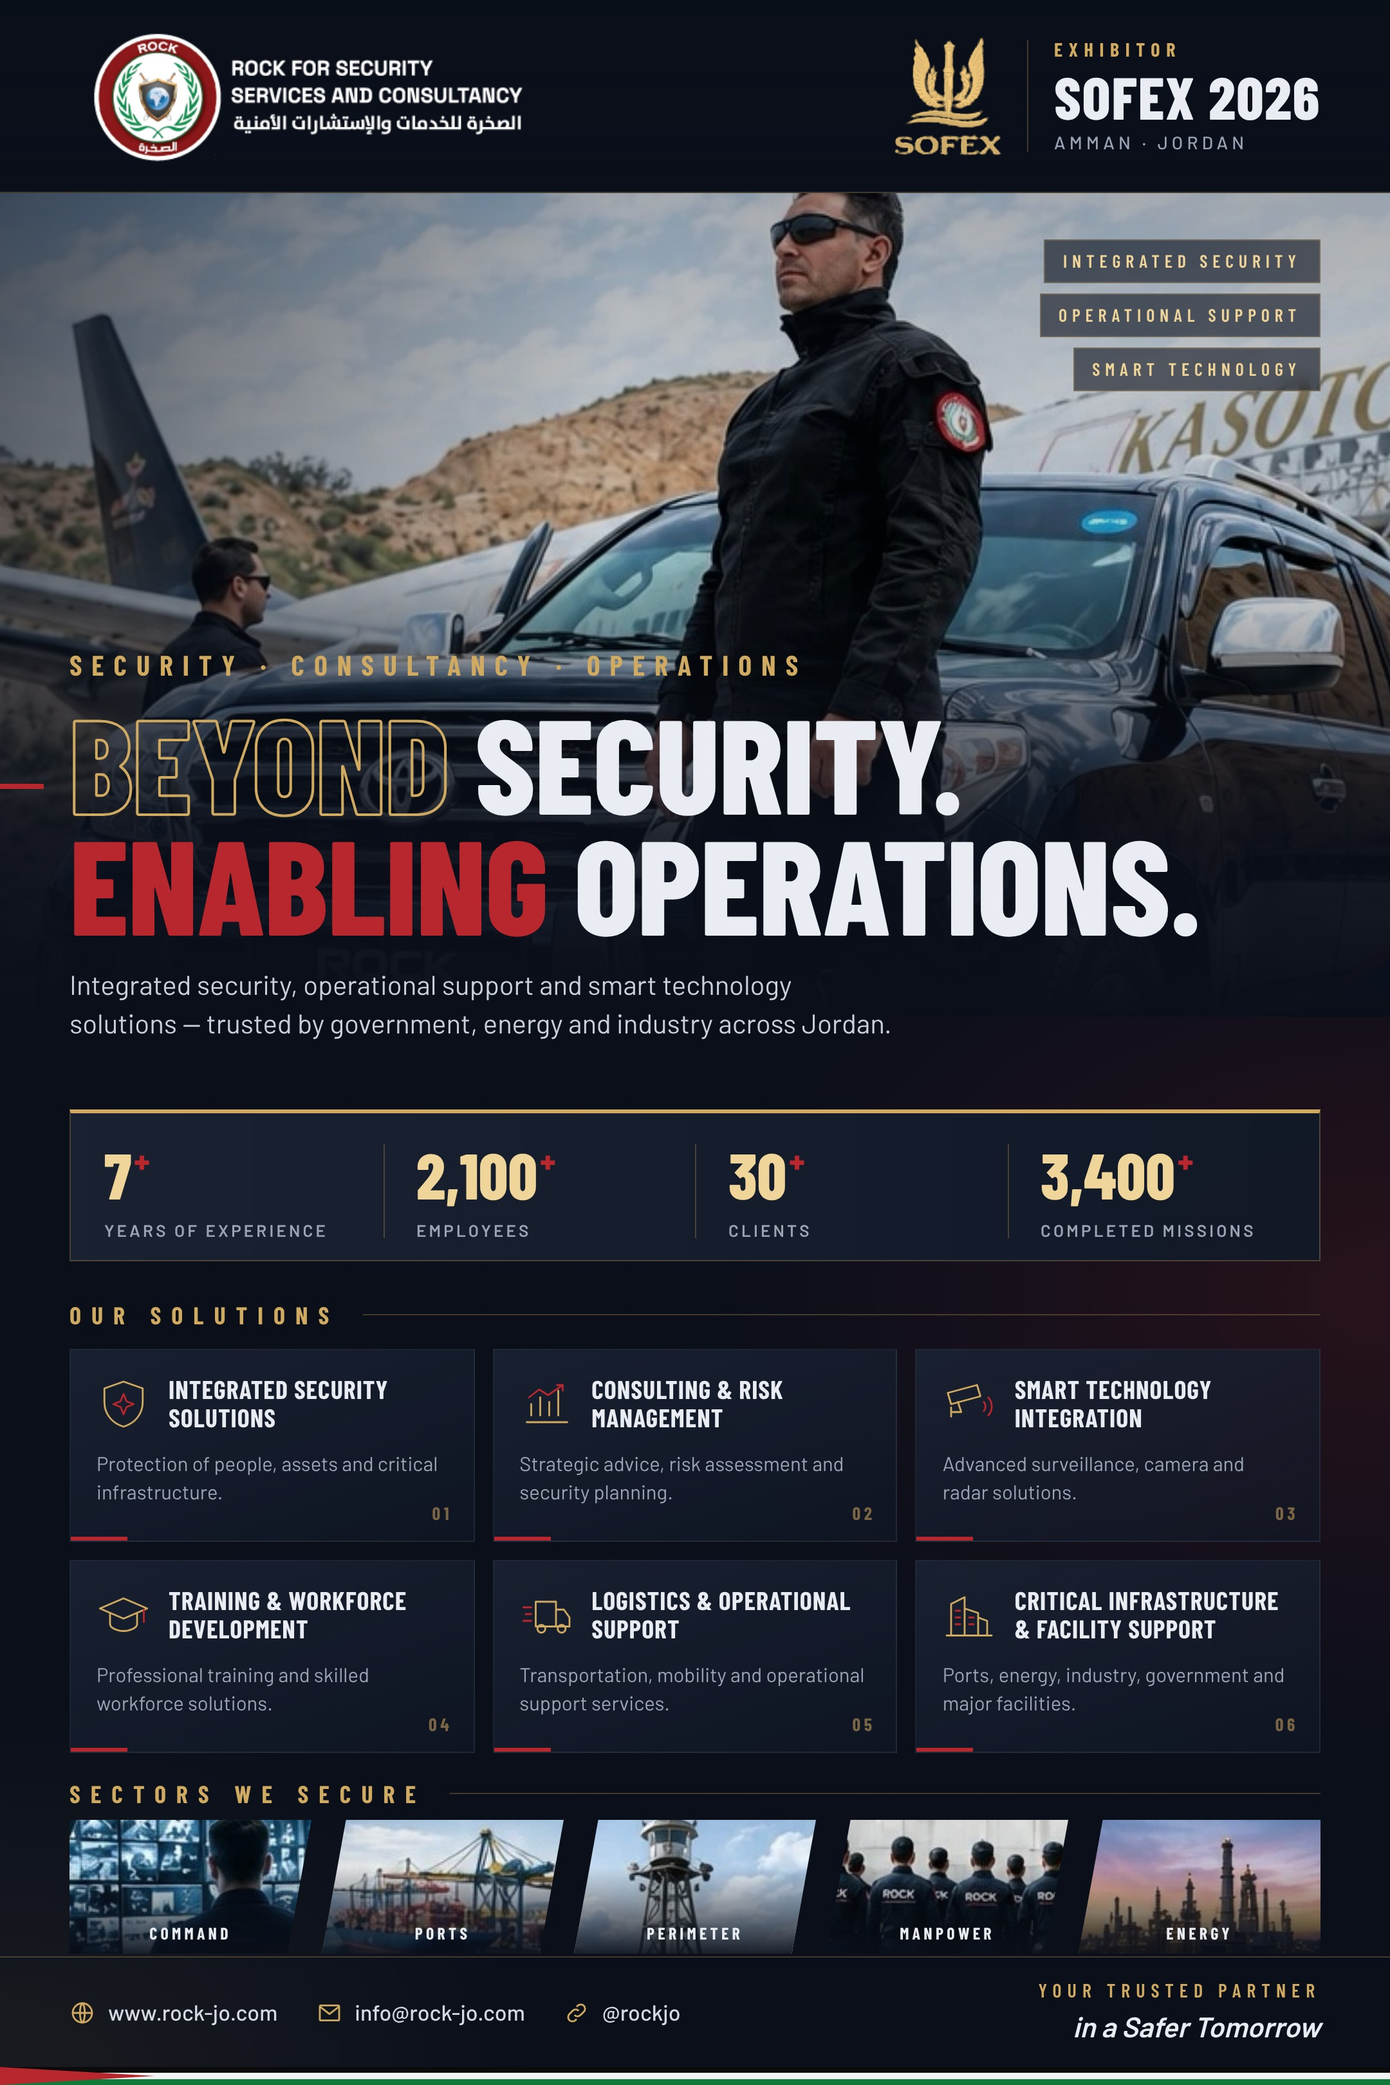
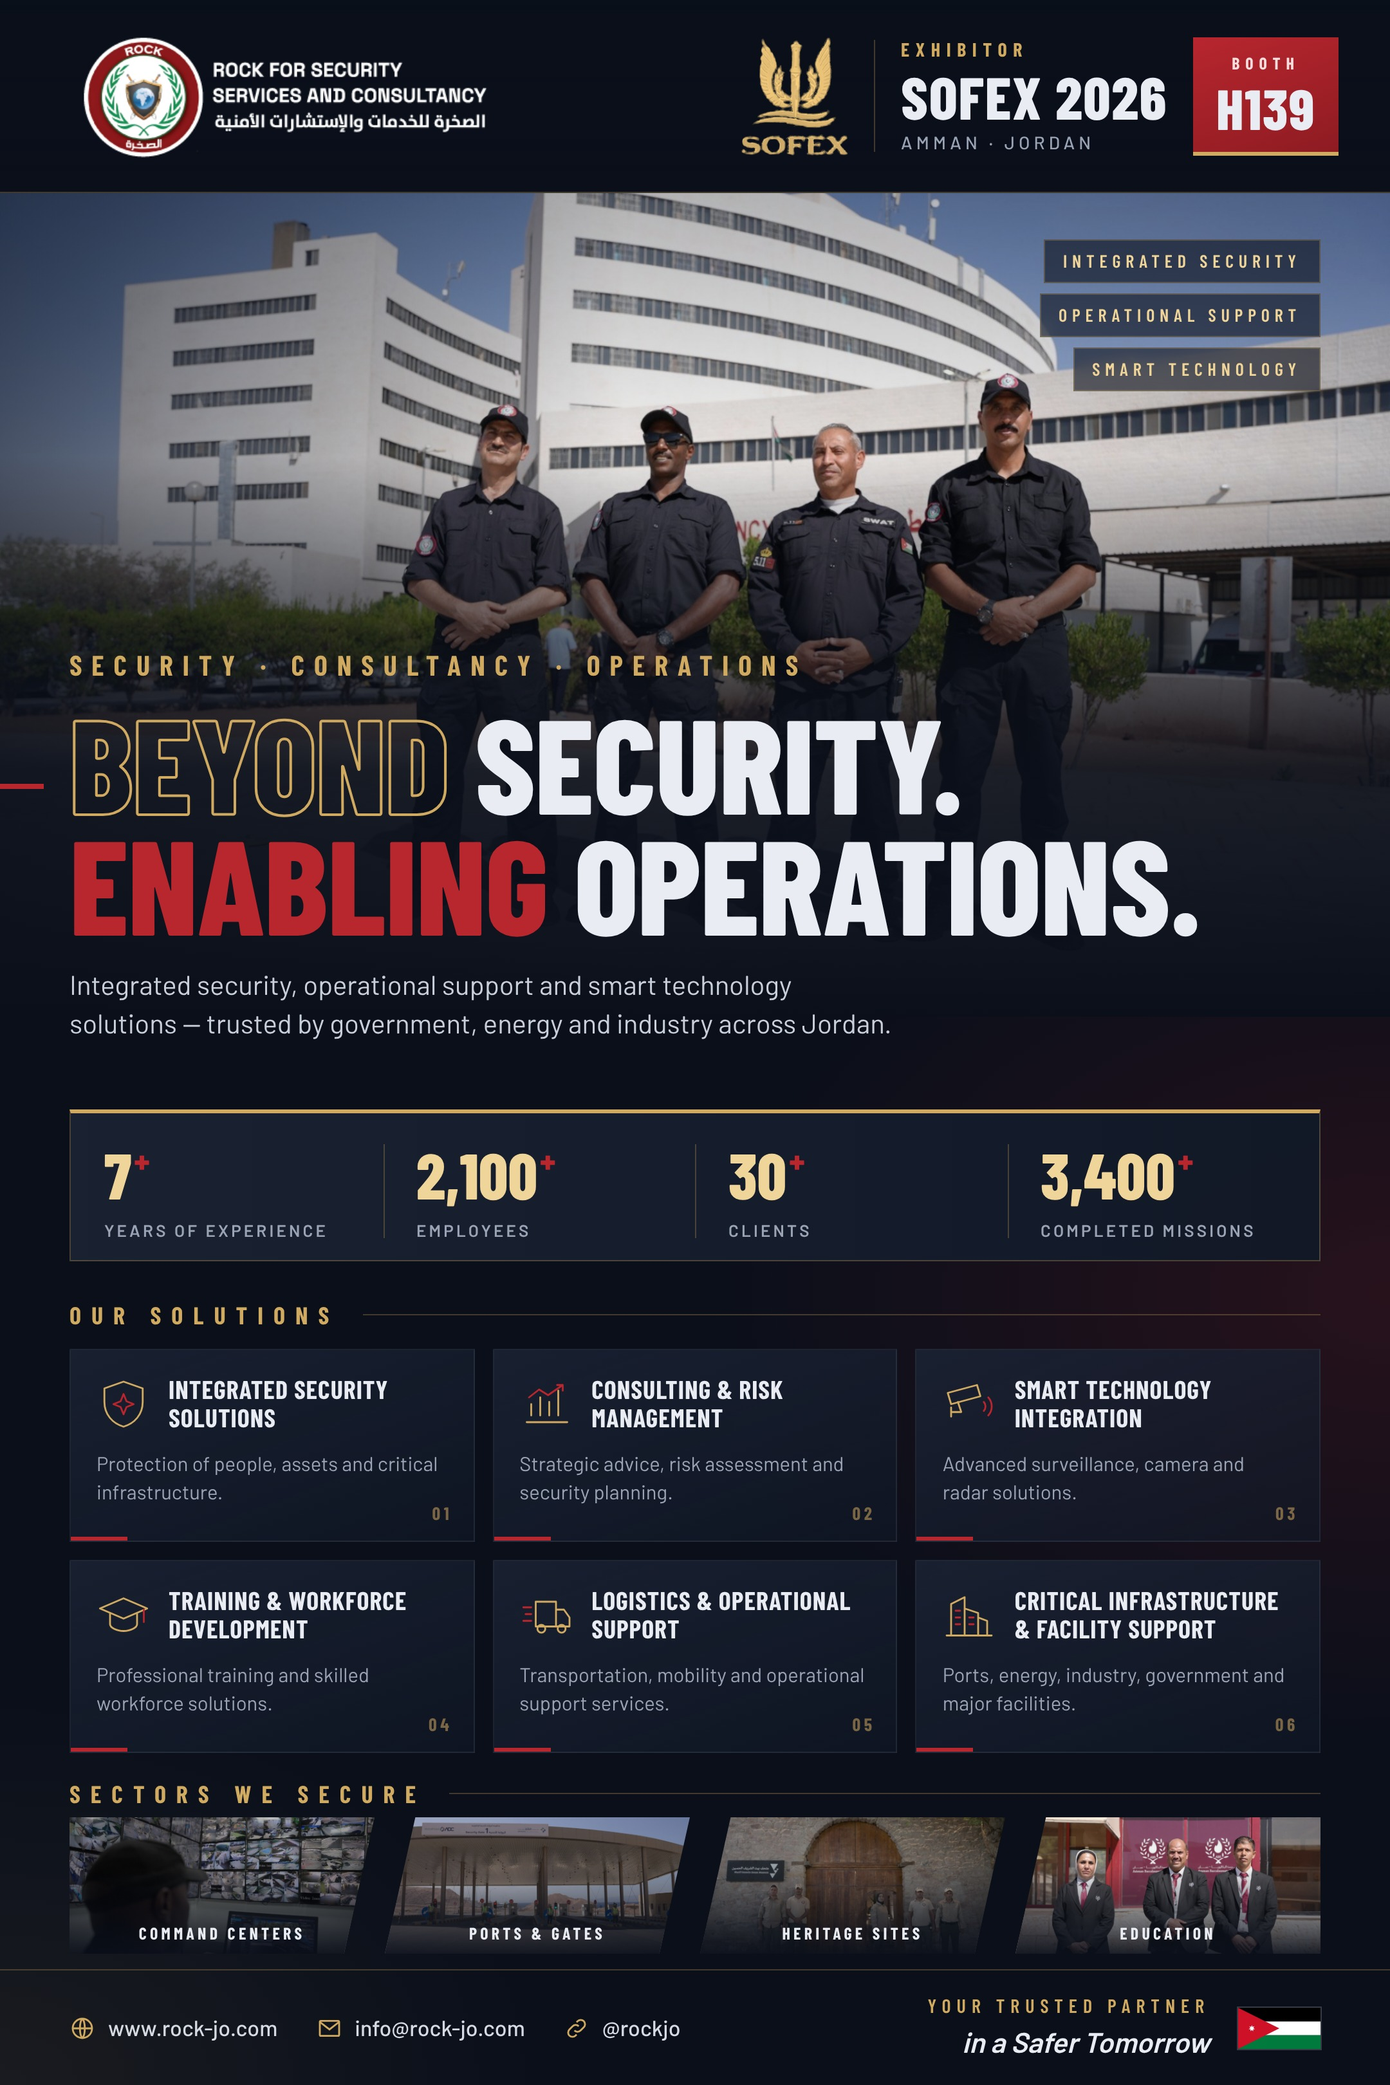
Use real ROCK photos, add booth H139 and Jordan flag; add poster option B
Claude-Session: https://claude.ai/code/session_01Aujy2QHcxaqkdffDCMkDu6

Changed region(s): [[0.0, 0.0, 1.0, 0.4052], [0.0, 0.8728, 1.0, 1.0]]

diff --git a/designs/rock-sofex-2026/poster-b.html b/designs/rock-sofex-2026/poster-b.html
@@ -1,0 +1,171 @@
+<!doctype html>
+<html lang="en">
+<head>
+<meta charset="utf-8">
+<title>ROCK · SOFEX 2026 · Option B</title>
+<link rel="stylesheet" href="fonts/fonts.css">
+<style>
+  :root{
+    --navy:#0d1b2e; --navy-2:#13263f; --paper:#f5f2ec; --paper-2:#ebe6dc;
+    --maroon:#8e1b22; --red:#b8262e; --gold:#b98f45; --gold-2:#e3c48a;
+    --ink:#0d1b2e; --muted:#5d6878; --line:#d8d1c3;
+  }
+  *{margin:0;padding:0;box-sizing:border-box}
+  html,body{background:var(--paper)}
+  .poster{position:relative;width:1080px;height:1620px;overflow:hidden;background:var(--paper);color:var(--ink);font-family:'Barlow',sans-serif}
+
+  /* header */
+  header{position:absolute;inset:0 0 auto 0;height:150px;background:var(--navy);display:flex;align-items:center;justify-content:space-between;padding:0 0 0 40px}
+  header .logo{height:122px}
+  .hdr-r{display:flex;align-items:stretch;height:100%}
+  .event{display:flex;align-items:center;gap:18px;padding:0 30px;color:#fff}
+  .event img{height:84px}
+  .event .k{font:700 13px/1 'Barlow Condensed';letter-spacing:.34em;color:var(--gold-2)}
+  .event .y{font:800 40px/1 'Barlow Condensed';margin:6px 0}
+  .event .c{font:500 13px/1 'Barlow';letter-spacing:.22em;color:#9fb0c6}
+  .booth{width:170px;background:var(--maroon);color:#fff;display:flex;flex-direction:column;justify-content:center;align-items:center;position:relative}
+  .booth .bk{font:700 14px/1 'Barlow Condensed';letter-spacing:.4em;color:#f3d4d4}
+  .booth .bn{font:800 56px/1 'Barlow Condensed';margin-top:6px}
+  .booth .flag{position:absolute;top:12px;right:12px;width:44px;height:22px;box-shadow:0 0 0 1px rgba(255,255,255,.35)}
+
+  /* intro */
+  .intro{position:absolute;top:186px;left:54px;right:54px;}
+  .eyebrow{display:flex;align-items:center;gap:14px;font:700 16px/1 'Barlow Condensed';letter-spacing:.36em;color:var(--maroon);text-transform:uppercase}
+  .eyebrow::before{content:"";width:40px;height:3px;background:var(--maroon)}
+  h1{margin-top:18px;white-space:nowrap;font:800 88px/.9 'Barlow Condensed';text-transform:uppercase;letter-spacing:-.005em;color:var(--navy)}
+  h1 span{color:var(--red)}
+  .intro p{position:absolute;right:0;top:0;width:290px;font:400 17px/1.5 'Barlow';color:var(--muted);border-left:3px solid var(--gold);padding-left:18px;margin-bottom:6px}
+
+  /* mosaic */
+  .mosaic{position:absolute;top:412px;left:54px;right:54px;height:578px;display:grid;
+    grid-template-columns:1.35fr 1fr 1fr;grid-template-rows:1fr 1fr;gap:10px}
+  .ph{position:relative;overflow:hidden;background:#ccc}
+  .ph img{width:100%;height:100%;object-fit:cover;display:block}
+  .ph.big{grid-row:1 / 3}
+  .ph.wide{grid-column:2 / 4}
+  .ph figcaption{position:absolute;left:0;bottom:0;padding:8px 14px;background:var(--navy);color:#fff;
+    font:700 13px/1 'Barlow Condensed';letter-spacing:.24em;text-transform:uppercase}
+  .ph figcaption::before{content:"";display:inline-block;width:8px;height:8px;background:var(--red);margin-right:9px;vertical-align:1px}
+  .ph.big::after{content:"";position:absolute;inset:0;background:linear-gradient(0deg,rgba(13,27,46,.35),transparent 40%)}
+  .ph.big figcaption{z-index:2}
+
+  /* stats band */
+  .stats{position:absolute;top:1020px;left:0;right:0;height:132px;background:var(--navy);color:#fff;
+    display:grid;grid-template-columns:repeat(4,1fr);padding:0 54px}
+  .stats::before{content:"";position:absolute;left:0;right:0;top:0;height:4px;background:linear-gradient(90deg,var(--red) 0 25%,var(--gold) 25% 100%)}
+  .stat{display:flex;flex-direction:column;justify-content:center;padding-left:24px;position:relative}
+  .stat:first-child{padding-left:0}
+  .stat+.stat::before{content:"";position:absolute;left:0;top:34px;bottom:34px;width:1px;background:rgba(255,255,255,.16)}
+  .stat .n{font:800 54px/1 'Barlow Condensed';color:var(--gold-2)}
+  .stat .n sup{font-size:30px;color:var(--red);vertical-align:top}
+  .stat .l{margin-top:8px;font:600 13px/1 'Barlow';letter-spacing:.16em;text-transform:uppercase;color:#a9b6c8}
+
+  /* services */
+  .sec{position:absolute;top:1190px;left:54px;right:54px;display:flex;align-items:center;gap:18px}
+  .sec h2{font:800 30px/1 'Barlow Condensed';text-transform:uppercase;letter-spacing:.04em;color:var(--navy)}
+  .sec h2 span{color:var(--red)}
+  .sec .bar{flex:1;height:1px;background:var(--line)}
+  .sec .note{font:600 13px/1 'Barlow Condensed';letter-spacing:.3em;color:var(--gold);text-transform:uppercase}
+  .services{position:absolute;top:1240px;left:54px;right:54px;display:grid;grid-template-columns:repeat(3,1fr);column-gap:34px;row-gap:22px}
+  .svc{display:grid;grid-template-columns:46px 1fr;gap:14px;padding-top:16px;border-top:2px solid var(--navy)}
+  .svc svg{width:46px;height:46px;stroke:var(--maroon);fill:none;stroke-width:1.7;stroke-linecap:round;stroke-linejoin:round}
+  .svc svg .g{stroke:var(--gold)}
+  .svc h3{font:700 18px/1.08 'Barlow Condensed';text-transform:uppercase;letter-spacing:.03em;color:var(--navy)}
+  .svc p{margin-top:6px;font:400 14.5px/1.4 'Barlow';color:var(--muted)}
+
+  /* footer */
+  footer{position:absolute;left:0;right:0;bottom:0;height:110px;background:var(--navy);color:#fff;display:flex;align-items:center;justify-content:space-between;padding:0 54px}
+  footer::before{content:"";position:absolute;left:0;right:0;top:0;height:4px;background:var(--maroon)}
+  .contact{display:flex;gap:28px}
+  .contact div{display:flex;align-items:center;gap:10px;font:500 17px/1 'Barlow';color:#dbe2ec}
+  .contact svg{width:20px;height:20px;stroke:var(--gold-2);fill:none;stroke-width:1.7}
+  .motto{text-align:right}
+  .motto .en{font:600 14px/1 'Barlow Condensed';letter-spacing:.32em;text-transform:uppercase;color:var(--gold-2)}
+  .motto .sub{font:600 italic 22px/1.3 'Barlow';margin-top:6px}
+</style>
+</head>
+<body>
+<div class="poster">
+
+  <header>
+    <img class="logo" src="assets/logo-rock.png" alt="ROCK for Security Services and Consultancy">
+    <div class="hdr-r">
+      <div class="event">
+        <img src="assets/sofex-gold.png" alt="SOFEX">
+        <div>
+          <div class="k">EXHIBITOR</div>
+          <div class="y">SOFEX 2026</div>
+          <div class="c">AMMAN · JORDAN</div>
+        </div>
+      </div>
+      <div class="booth">
+        <img class="flag" src="assets/flag-jordan.svg" alt="Jordan">
+        <div class="bk">BOOTH</div><div class="bn">H139</div>
+      </div>
+    </div>
+  </header>
+
+  <div class="intro">
+    <div>
+      <div class="eyebrow">Security · Consultancy · Operations</div>
+      <h1>Beyond Security.<br><span>Enabling Operations.</span></h1>
+    </div>
+    <p>Integrated security, operational support and smart technology solutions for Jordan's most critical sites.</p>
+  </div>
+
+  <div class="mosaic">
+    <figure class="ph big"><img src="assets/photos/hospital-team.jpg" style="object-position:50% 50%" alt=""><figcaption>Healthcare</figcaption></figure>
+    <figure class="ph wide"><img src="assets/photos/control-room.jpg" style="object-position:50% 35%" alt=""><figcaption>Command Centers</figcaption></figure>
+    <figure class="ph"><img src="assets/photos/security-gate.jpg" style="object-position:50% 70%" alt=""><figcaption>Ports &amp; Gates</figcaption></figure>
+    <figure class="ph"><img src="assets/photos/heritage-site.jpg" style="object-position:72% 70%" alt=""><figcaption>Heritage</figcaption></figure>
+  </div>
+
+  <div class="stats">
+    <div class="stat"><div class="n">7<sup>+</sup></div><div class="l">Years of Experience</div></div>
+    <div class="stat"><div class="n">2,100<sup>+</sup></div><div class="l">Employees</div></div>
+    <div class="stat"><div class="n">30<sup>+</sup></div><div class="l">Clients</div></div>
+    <div class="stat"><div class="n">3,400<sup>+</sup></div><div class="l">Completed Missions</div></div>
+  </div>
+
+  <div class="sec"><h2>Our <span>Solutions</span></h2><div class="bar"></div><div class="note">Visit us · Booth H139</div></div>
+  <div class="services">
+    <div class="svc">
+      <svg viewBox="0 0 48 48"><path d="M24 4 7 10v12c0 11 7 19 17 22 10-3 17-11 17-22V10z"/><path class="g" d="m24 15 2.6 6.4L33 24l-6.4 2.6L24 33l-2.6-6.4L15 24l6.4-2.6z"/></svg>
+      <div><h3>Integrated Security Solutions</h3><p>Protection of people, assets and critical infrastructure.</p></div>
+    </div>
+    <div class="svc">
+      <svg viewBox="0 0 48 48"><path d="M6 40h36"/><path d="M10 34V24M18 34V18M26 34V22M34 34V12"/><path class="g" d="m8 18 9-7 8 5 13-9M33 7h5v5"/></svg>
+      <div><h3>Consulting &amp; Risk Management</h3><p>Strategic advice, risk assessment and security planning.</p></div>
+    </div>
+    <div class="svc">
+      <svg viewBox="0 0 48 48"><path d="M5 14 31 7l3 10-26 7z"/><path d="M14 22l3 9H8M8 27v8"/><path class="g" d="M37 22a6 6 0 0 1 0 8M41 18a12 12 0 0 1 0 16"/></svg>
+      <div><h3>Smart Technology Integration</h3><p>Advanced surveillance, camera and radar solutions.</p></div>
+    </div>
+    <div class="svc">
+      <svg viewBox="0 0 48 48"><path d="M3 18 24 9l21 9-21 9z"/><path d="M12 22v10c0 3 6 6 12 6s12-3 12-6V22"/><path class="g" d="M42 19v11"/></svg>
+      <div><h3>Training &amp; Workforce Development</h3><p>Professional training and skilled workforce solutions.</p></div>
+    </div>
+    <div class="svc">
+      <svg viewBox="0 0 48 48"><path d="M14 12h18v22H14zM32 19h7l5 7v8H32"/><circle cx="19" cy="36" r="3.5"/><circle cx="37" cy="36" r="3.5"/><path class="g" d="M3 17h7M5 23h5M3 29h7"/></svg>
+      <div><h3>Logistics &amp; Operational Support</h3><p>Transportation, mobility and operational support services.</p></div>
+    </div>
+    <div class="svc">
+      <svg viewBox="0 0 48 48"><path d="M8 42V14l12-6v34M20 42V18l12 4v20M32 42V26l8 3v13M4 42h40"/><path class="g" d="M12 20h4M12 26h4M12 32h4M24 26h4M24 32h4"/></svg>
+      <div><h3>Critical Infrastructure &amp; Facility Support</h3><p>Ports, energy, industry, government and major facilities.</p></div>
+    </div>
+  </div>
+
+  <footer>
+    <div class="contact">
+      <div><svg viewBox="0 0 24 24"><circle cx="12" cy="12" r="9"/><path d="M3 12h18M12 3c3 3 3 15 0 18M12 3c-3 3-3 15 0 18"/></svg>www.rock-jo.com</div>
+      <div><svg viewBox="0 0 24 24"><rect x="3" y="5" width="18" height="14" rx="1"/><path d="m3 6 9 7 9-7"/></svg>info@rock-jo.com</div>
+      <div><svg viewBox="0 0 24 24"><path d="M10 14a4 4 0 0 0 5.7 0l3-3a4 4 0 0 0-5.7-5.7l-1 1"/><path d="M14 10a4 4 0 0 0-5.7 0l-3 3a4 4 0 0 0 5.7 5.7l1-1"/></svg>@rockjo</div>
+    </div>
+    <div class="motto">
+      <div class="en">Your Trusted Partner</div>
+      <div class="sub">in a Safer Tomorrow</div>
+    </div>
+  </footer>
+</div>
+</body>
+</html>

diff --git a/designs/rock-sofex-2026/poster.html b/designs/rock-sofex-2026/poster.html
@@ -26,24 +26,27 @@
   /* ---------- header ---------- */
   header{
     position:absolute;inset:0 0 auto 0;height:150px;z-index:5;
-    display:flex;align-items:center;justify-content:space-between;padding:0 54px 0 40px;
+    display:flex;align-items:center;justify-content:space-between;padding:0 40px 0 34px;
     background:linear-gradient(180deg,rgba(10,15,26,.96),rgba(10,15,26,.82));
     border-bottom:1px solid var(--line);
   }
-  header .logo{height:132px}
+  header .logo{height:124px}
   .event{display:flex;align-items:center;gap:20px}
   .event img{height:92px}
   .event .meta{border-left:1px solid var(--line);padding-left:20px;line-height:1}
   .event .k{font:700 15px/1 'Barlow Condensed';letter-spacing:.32em;color:var(--gold)}
   .event .y{font:800 46px/1 'Barlow Condensed';letter-spacing:.02em;margin:6px 0 6px}
   .event .c{font:500 14px/1 'Barlow';letter-spacing:.22em;color:var(--muted)}
+  .booth{background:linear-gradient(160deg,var(--red),var(--maroon));padding:14px 18px 12px;text-align:center;line-height:1;border-bottom:3px solid var(--gold)}
+  .booth .bk{font:700 13px/1 'Barlow Condensed';letter-spacing:.34em;color:#f6dede}
+  .booth .bn{font:800 44px/1 'Barlow Condensed';margin-top:6px;letter-spacing:.02em}
 
   /* ---------- hero ---------- */
   .hero{position:absolute;top:150px;left:0;width:1080px;height:640px}
-  .hero img{width:100%;height:100%;object-fit:cover;object-position:60% 30%;filter:saturate(.85) contrast(1.05)}
+  .hero img{width:100%;height:100%;object-fit:cover;object-position:50% 30%;filter:saturate(.9) contrast(1.06)}
   .hero::after{content:"";position:absolute;inset:0;
     background:
-      linear-gradient(0deg,var(--ink) 0%,rgba(10,15,26,.88) 22%,rgba(10,15,26,.15) 55%,rgba(10,15,26,.35) 100%),
+      linear-gradient(0deg,var(--ink) 0%,rgba(10,15,26,.92) 30%,rgba(10,15,26,.55) 48%,rgba(10,15,26,.05) 68%,rgba(10,15,26,.3) 100%),
       linear-gradient(90deg,rgba(10,15,26,.55),transparent 45%);}
   .tag{
     position:absolute;z-index:3;top:186px;right:54px;
@@ -97,7 +100,7 @@
 
   /* ---------- sectors ---------- */
   .t2{top:1384px}
-  .tiles{position:absolute;left:54px;right:54px;top:1414px;height:104px;display:grid;grid-template-columns:repeat(5,1fr);gap:8px}
+  .tiles{position:absolute;left:54px;right:54px;top:1412px;height:106px;display:grid;grid-template-columns:repeat(4,1fr);gap:8px}
   .tile{position:relative;overflow:hidden;clip-path:polygon(10% 0,100% 0,90% 100%,0 100%)}
   .tile:first-child{clip-path:polygon(0 0,100% 0,90% 100%,0 100%)}
   .tile:last-child{clip-path:polygon(10% 0,100% 0,100% 100%,0 100%)}
@@ -107,7 +110,7 @@
 
   /* ---------- footer ---------- */
   footer{
-    position:absolute;left:0;right:0;bottom:14px;height:86px;
+    position:absolute;left:0;right:0;bottom:0;height:90px;
     display:flex;align-items:center;justify-content:space-between;padding:0 54px;
     border-top:1px solid var(--line);
   }
@@ -117,9 +120,8 @@
   .motto{text-align:right}
   .motto .en{font:600 15px/1 'Barlow Condensed';letter-spacing:.3em;text-transform:uppercase;color:var(--gold)}
   .motto .sub{font:600 italic 22px/1.3 'Barlow';margin-top:6px;color:var(--txt)}
-  .flag{position:absolute;left:0;right:0;bottom:0;height:14px;
-    background:linear-gradient(180deg,#0b0b0b 0 33.3%,#f3f3f3 33.3% 66.6%,#0f7a3a 66.6% 100%)}
-  .flag::before{content:"";position:absolute;left:0;top:0;bottom:0;width:120px;background:var(--red);clip-path:polygon(0 0,100% 50%,0 100%)}
+  .right{display:flex;align-items:center;gap:22px}
+  .flag{width:64px;height:32px;display:block;box-shadow:0 0 0 1px rgba(255,255,255,.18)}
 </style>
 </head>
 <body>
@@ -134,10 +136,11 @@
         <div class="y">SOFEX 2026</div>
         <div class="c">AMMAN · JORDAN</div>
       </div>
+      <div class="booth"><div class="bk">BOOTH</div><div class="bn">H139</div></div>
     </div>
   </header>
 
-  <div class="hero"><img src="assets/hero.jpg" alt=""></div>
+  <div class="hero"><img src="assets/photos/hospital-team.jpg" alt=""></div>
 
   <div class="tag">
     <span>Integrated Security</span>
@@ -207,11 +210,10 @@
 
   <div class="sec-title t2"><h2>Sectors We Secure</h2><div class="bar"></div></div>
   <div class="tiles">
-    <div class="tile"><img src="assets/tile1.jpg" alt=""><span>Command</span></div>
-    <div class="tile"><img src="assets/tile2.jpg" alt=""><span>Ports</span></div>
-    <div class="tile"><img src="assets/tile3.jpg" alt=""><span>Perimeter</span></div>
-    <div class="tile"><img src="assets/tile4.jpg" alt=""><span>Manpower</span></div>
-    <div class="tile"><img src="assets/tile5.jpg" alt=""><span>Energy</span></div>
+    <div class="tile"><img src="assets/photos/control-room.jpg" style="object-position:50% 40%" alt=""><span>Command Centers</span></div>
+    <div class="tile"><img src="assets/photos/security-gate.jpg" style="object-position:50% 68%" alt=""><span>Ports &amp; Gates</span></div>
+    <div class="tile"><img src="assets/photos/heritage-site.jpg" style="object-position:80% 72%" alt=""><span>Heritage Sites</span></div>
+    <div class="tile"><img src="assets/photos/school-team.jpg" style="object-position:50% 38%" alt=""><span>Education</span></div>
   </div>
 
   <footer>
@@ -220,12 +222,14 @@
       <div><svg viewBox="0 0 24 24"><rect x="3" y="5" width="18" height="14" rx="1"/><path d="m3 6 9 7 9-7"/></svg>info@rock-jo.com</div>
       <div><svg viewBox="0 0 24 24"><path d="M10 14a4 4 0 0 0 5.7 0l3-3a4 4 0 0 0-5.7-5.7l-1 1"/><path d="M14 10a4 4 0 0 0-5.7 0l-3 3a4 4 0 0 0 5.7 5.7l1-1"/></svg>@rockjo</div>
     </div>
-    <div class="motto">
-      <div class="en">Your Trusted Partner</div>
-      <div class="sub">in a Safer Tomorrow</div>
+    <div class="right">
+      <div class="motto">
+        <div class="en">Your Trusted Partner</div>
+        <div class="sub">in a Safer Tomorrow</div>
+      </div>
+      <img class="flag" src="assets/flag-jordan.svg" alt="Jordan">
     </div>
   </footer>
-  <div class="flag"></div>
 </div>
 </body>
 </html>
